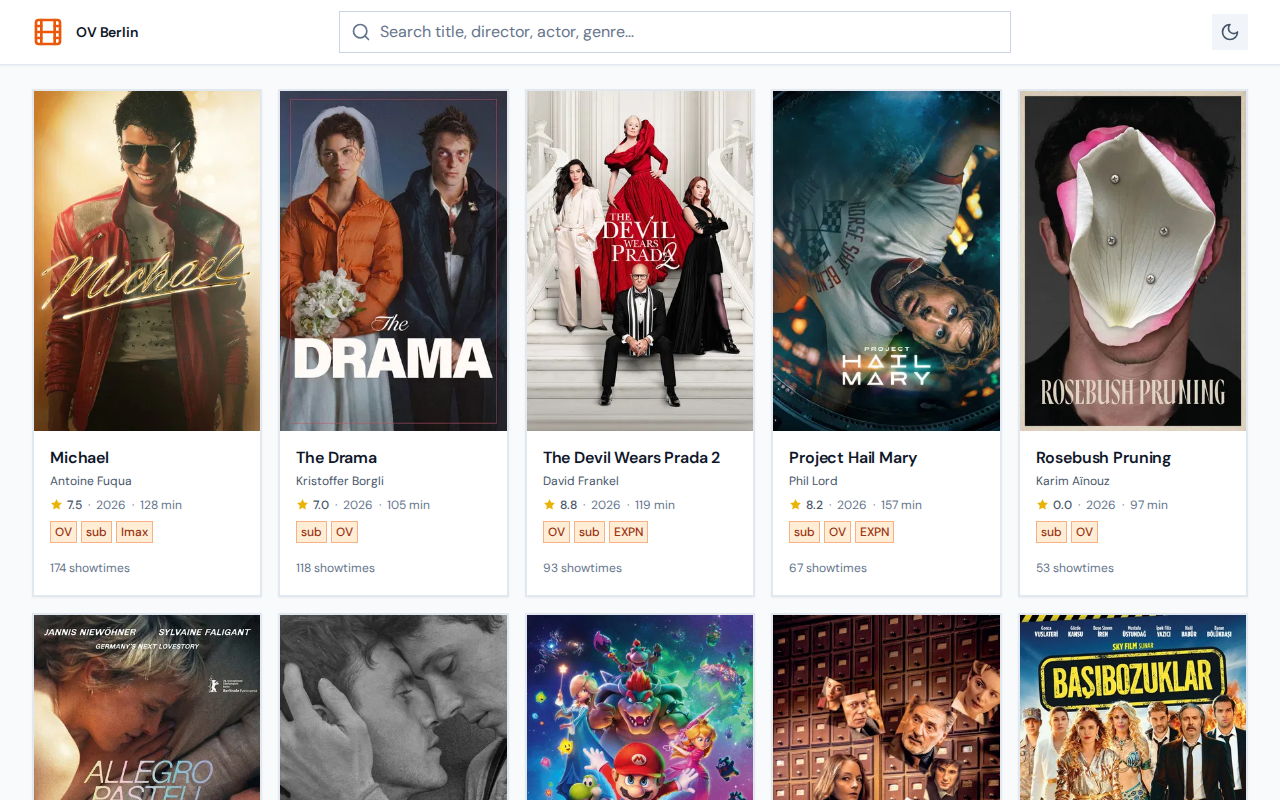
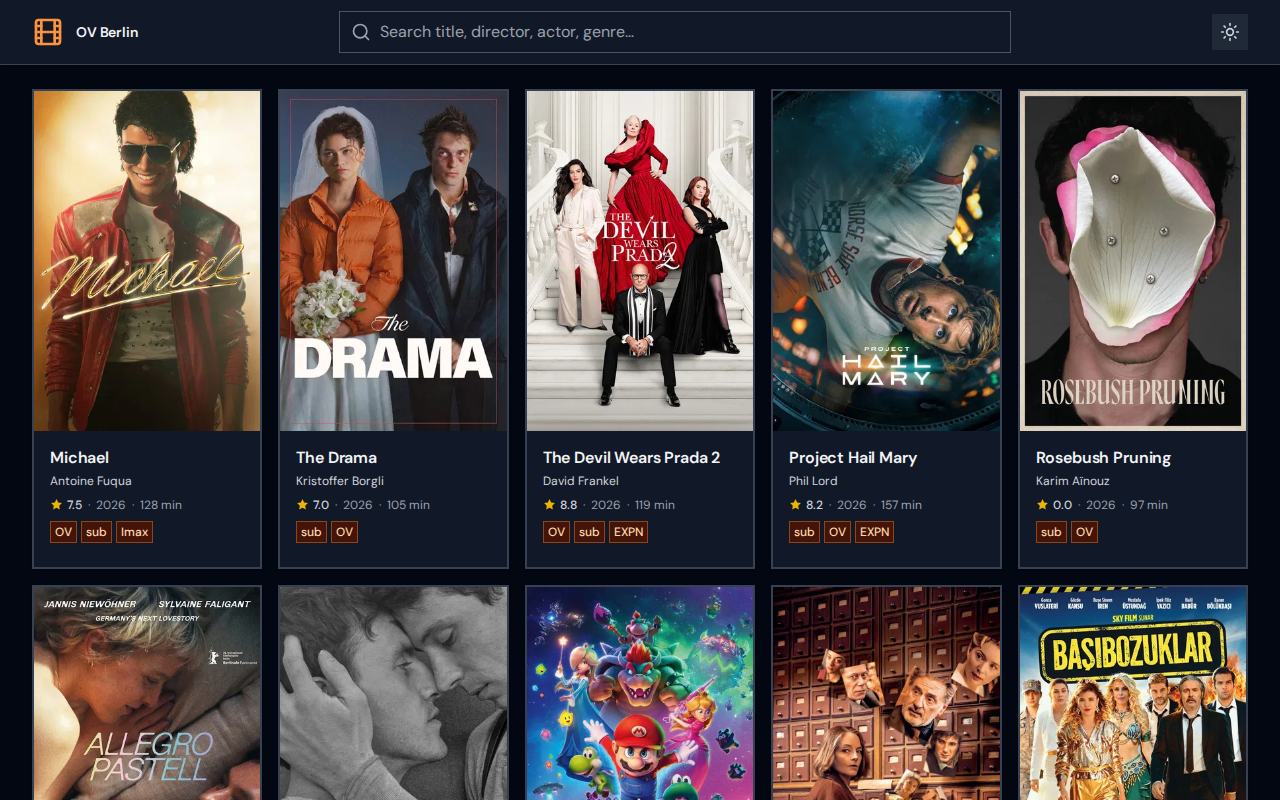
docs: switch README screenshots to dark mode

diff --git a/scripts/screenshot.ts b/scripts/screenshot.ts
@@ -12,7 +12,7 @@ async function wait(ms: number) {
 async function main() {
   console.log(`Capturing screenshots from ${BASE_URL}...`);
   const browser = await chromium.launch();
-  const ctx = await browser.newContext({ viewport: VIEWPORT });
+  const ctx = await browser.newContext({ viewport: VIEWPORT, colorScheme: 'dark' });
   const page = await ctx.newPage();
 
   // 1 — Homepage: movie listing
